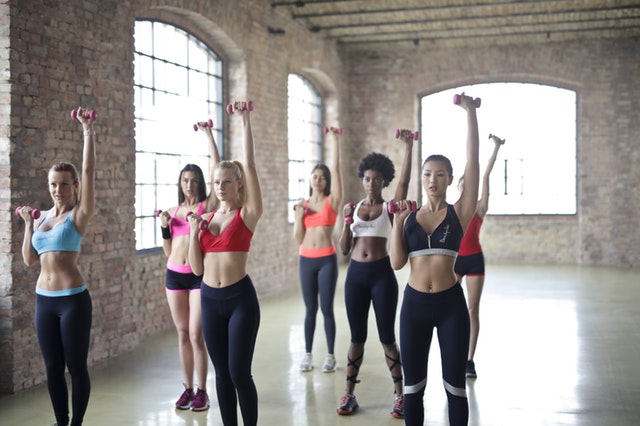
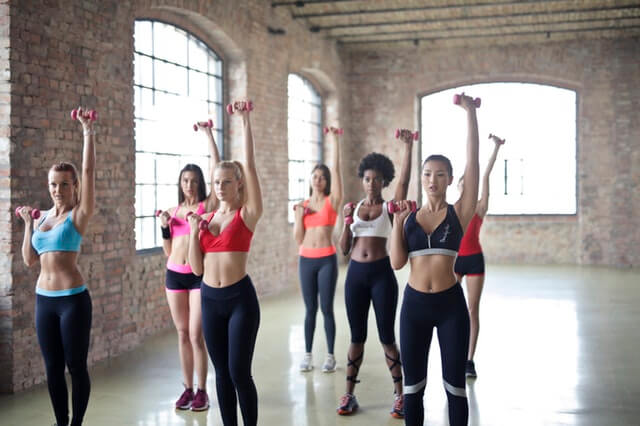
minified the images

diff --git a/index.html b/index.html
@@ -52,7 +52,7 @@
         <div id="carouselExampleControls" class="carousel slide" data-ride="carousel">
             <div class="carousel-inner">
                 <div class="carousel-item active darken-img">
-                    <img class="d-block w-100" src="https://images.unsplash.com/photo-1518611012118-696072aa579a?ixlib=rb-1.2.1&ixid=eyJhcHBfaWQiOjEyMDd9&auto=format&fit=crop&w=2550&q=80"
+                    <img class="d-block w-100" src="<%= require('./src/assets/bg1.jpg')%>"
                         alt="First slide">
                     <div class="carousel-text text-center">
                         <h1 class="carousel-title">Convenient Fitness Classes</h1>
@@ -60,7 +60,7 @@
                     </div>
                 </div>
                 <div class="carousel-item darken-img">
-                    <img class="d-block w-100" src="https://images.unsplash.com/photo-1534438327276-14e5300c3a48?ixlib=rb-1.2.1&ixid=eyJhcHBfaWQiOjEyMDd9&auto=format&fit=crop&w=2250&q=80"
+                    <img class="d-block w-100" src="<%= require('./src/assets/bg2.jpg')%>"
                         alt="Second slide">
                     <div class="carousel-text text-center">
                         <h1 class="carousel-title">Fitness is Life</h1>
@@ -68,7 +68,7 @@
                     </div>
                 </div>
                 <div class="carousel-item darken-img">
-                    <img class="d-block w-100" src="https://images.unsplash.com/photo-1517963628607-235ccdd5476c?ixlib=rb-1.2.1&ixid=eyJhcHBfaWQiOjEyMDd9&auto=format&fit=crop&w=2251&q=80"
+                    <img class="d-block w-100" src="<%= require('./src/assets/bg3.jpg')%>"
                         alt="Third slide">
                     <div class="carousel-text text-center">
                         <h1 class="carousel-title">Get in Shape!</h1>
